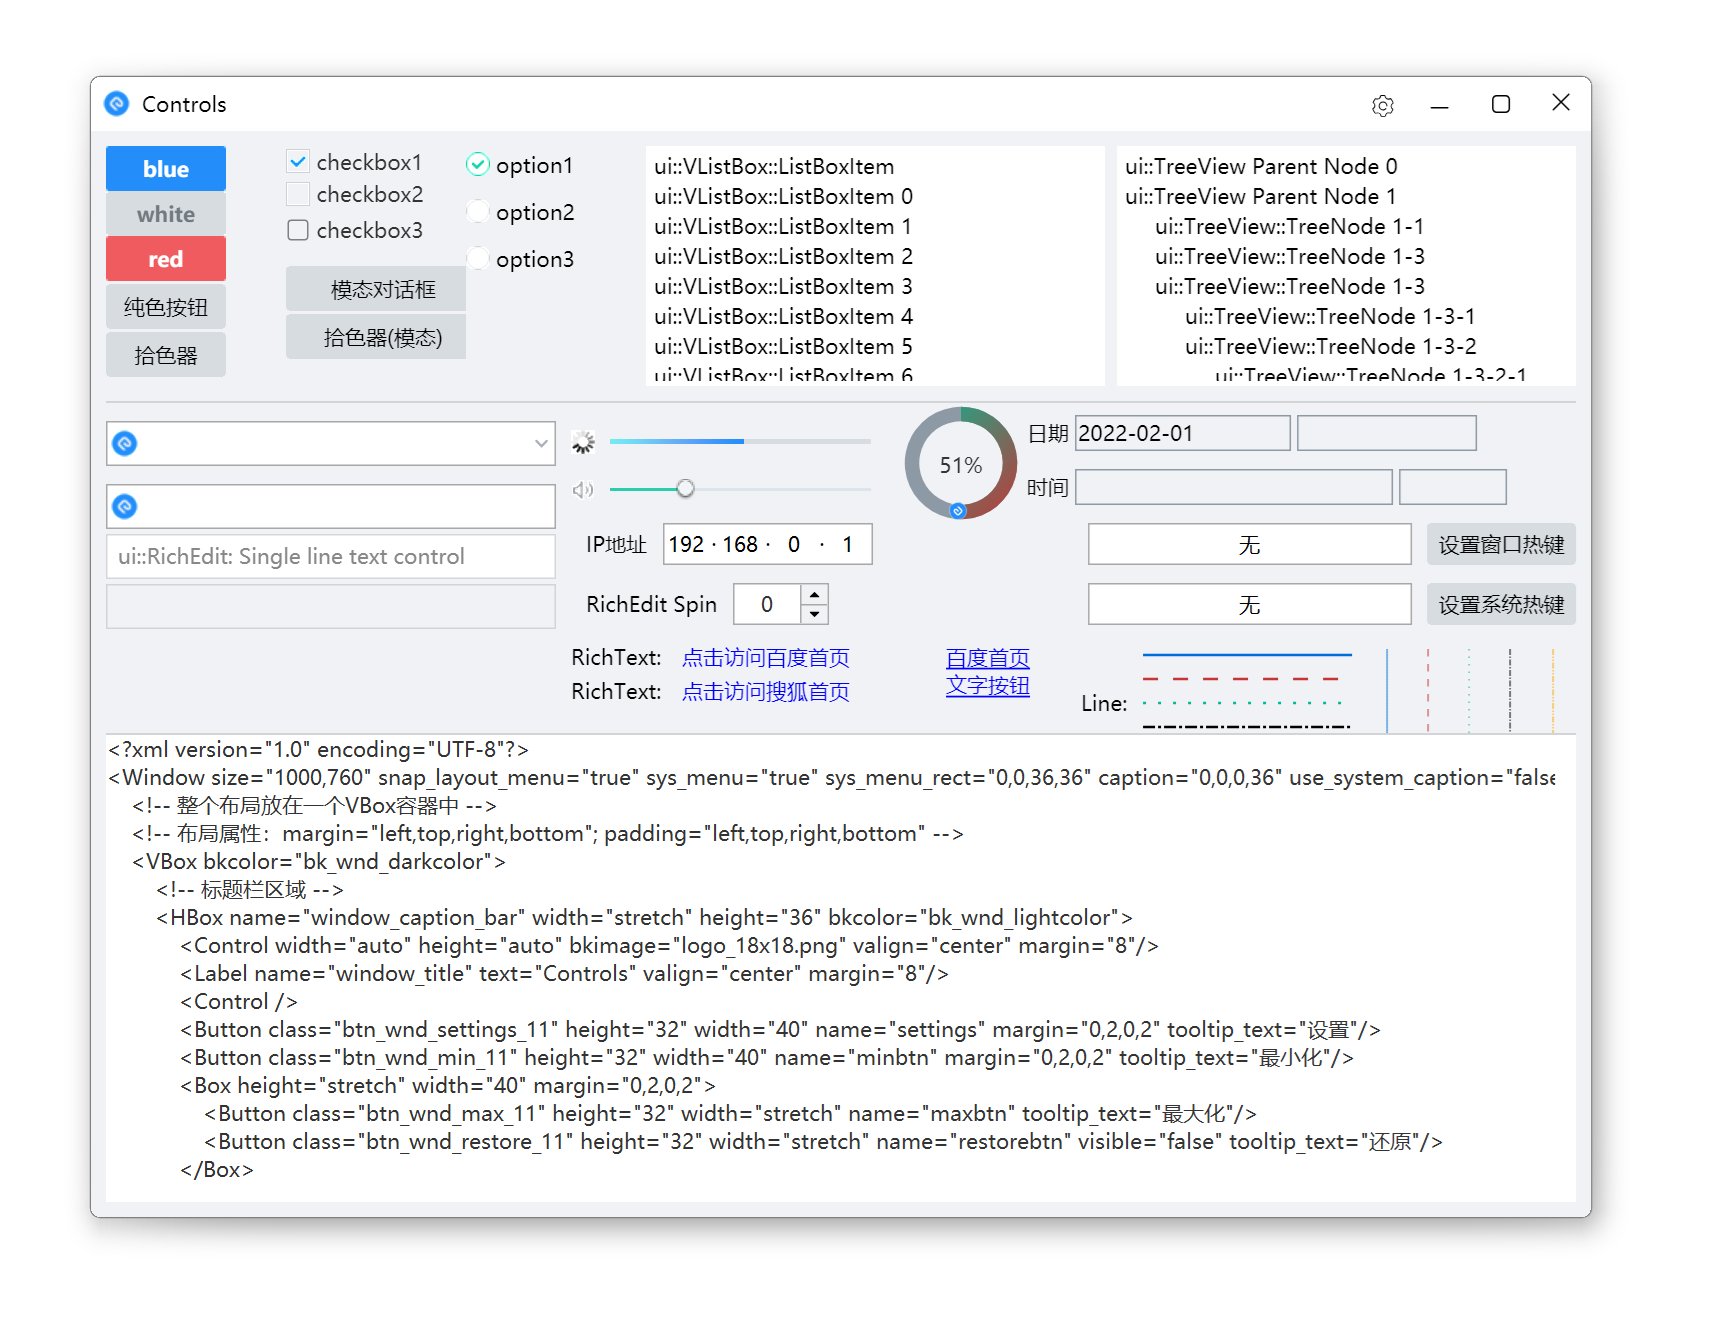
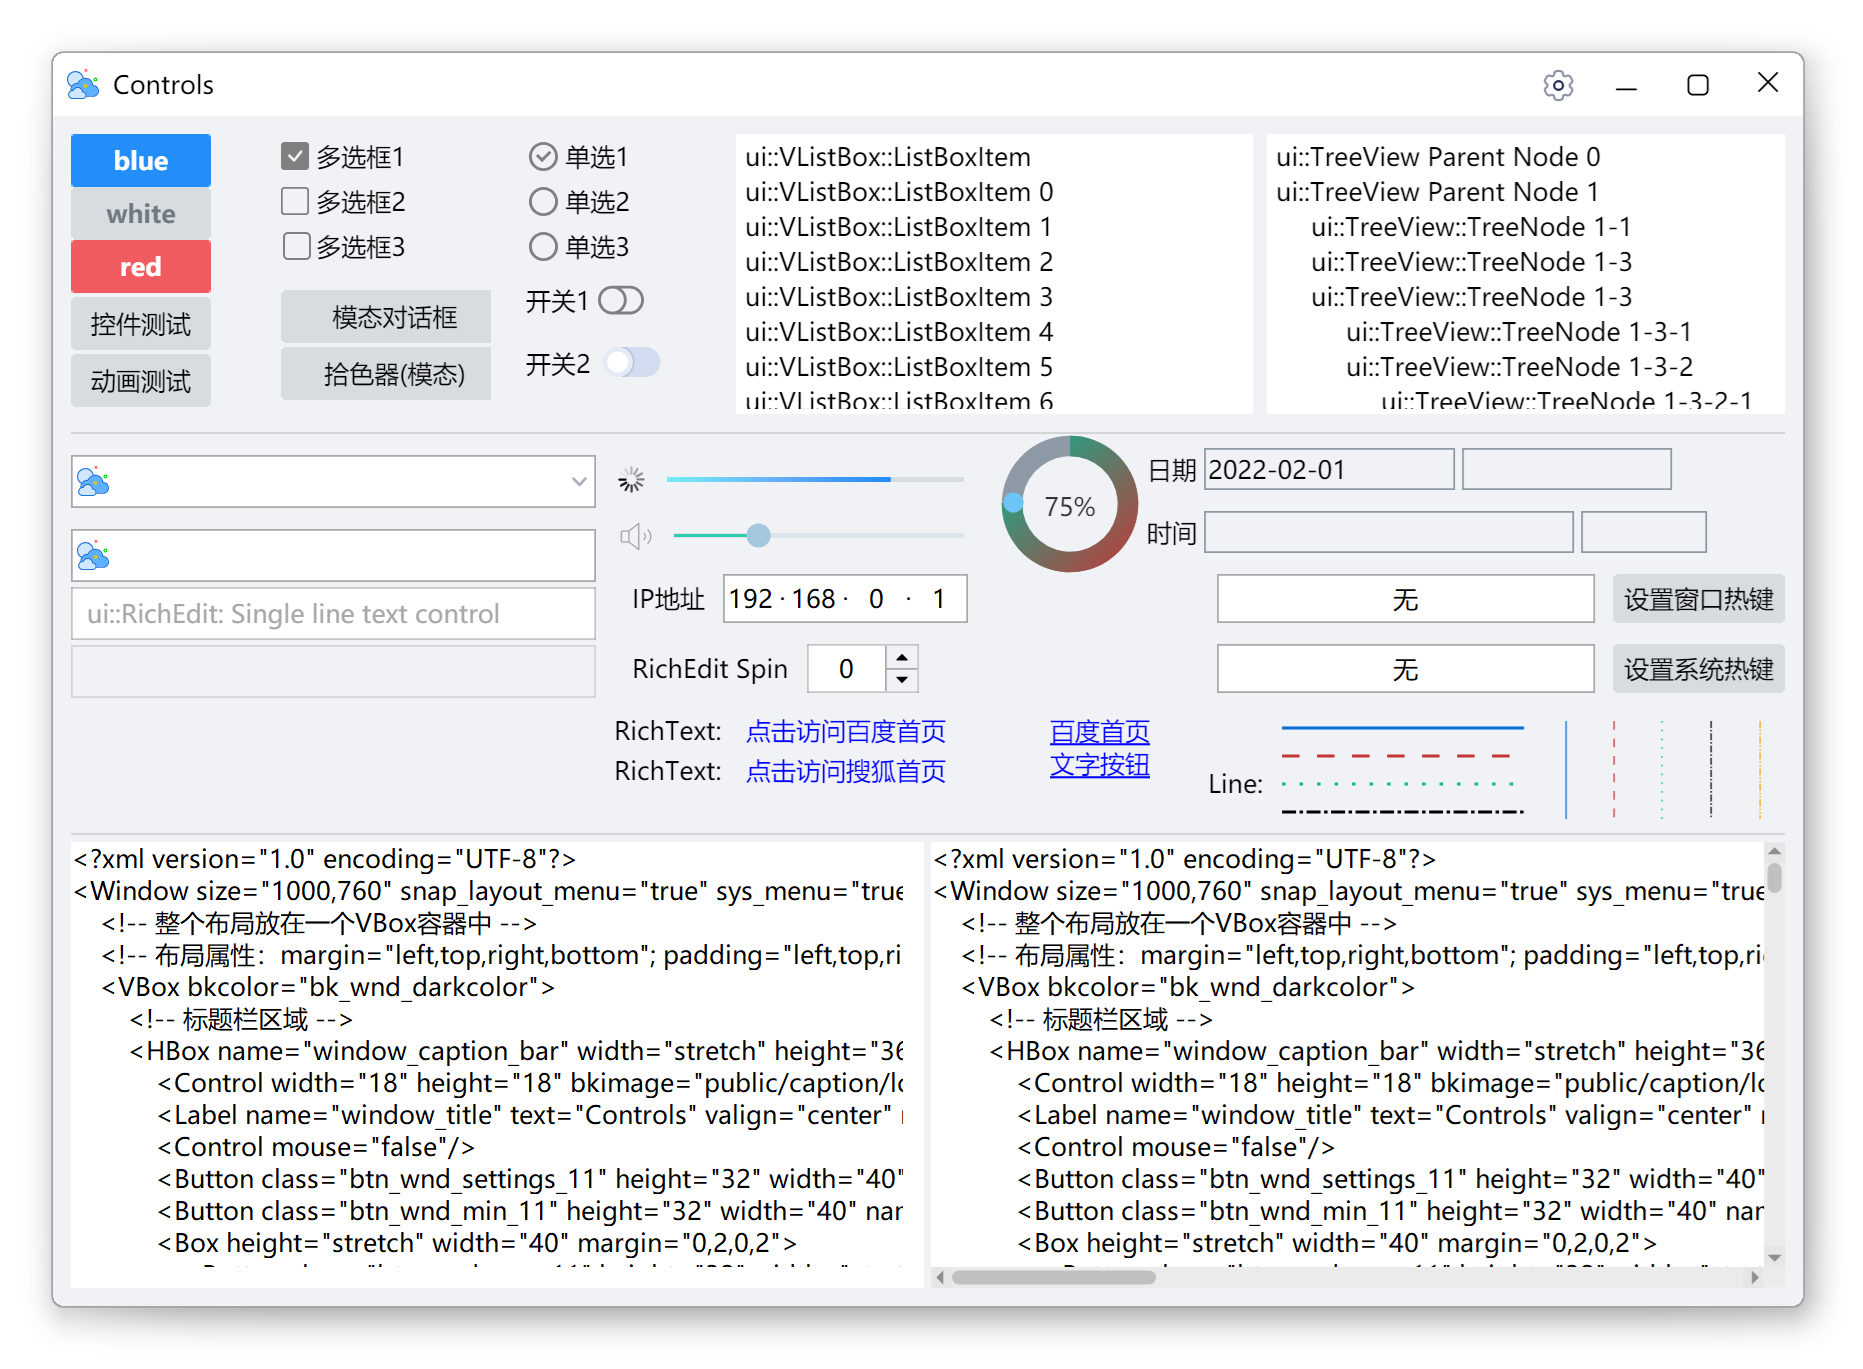
完善REASME.md等文档，将各个示例程序的截图更新到最新。

Changed region(s): [[0.0, 0.0307, 0.982, 0.982], [0.3376, 0.2455, 0.3683, 0.2762]]

diff --git a/README.md b/README.md
@@ -55,7 +55,7 @@
     <tr><td align="left">10. CEF组件放到duilib工程，并对CEF的版本进行了升级（支持libcef 109 版本，以兼容Win7系统；支持libcef 137 版本，支持Win10及以上操作系统）</td></tr>
     <tr><td align="left">11. 重新设计图片管理的接口和加载流程（Image目录），支持多线程加载图片，以更好的扩展其他图片格式支持</td></tr>
     <tr>
-        <td rowspan="19">功能完善</td>
+        <td rowspan="20">功能完善</td>
         <td align="left">1. 对窗口类（Window）增加了新的属性：的功能进行了完善，提高对DPI自适应、窗口消息的代码容错，代码结构做了调整</td>
     </tr>
     <tr><td align="left">2. 对窗口类（Window）增加了新的属性：use_system_caption，snap_layout_menu，sys_menu，sys_menu_rect, icon属性，提供使用操作系统默认标题栏的选项，自绘标题栏的功能与系统标题栏的功能相似</td></tr>
@@ -65,7 +65,7 @@
     <tr><td align="left">6. 对组合框（Combo）关联的控件（CheckCombo、FilterCombo）进行了优化，提升可用性</td></tr>
     <tr><td align="left">7. 对日期时间（DateTime）控件的编辑功能进行了完善</td></tr>
     <tr><td align="left">8. 对菜单（CMenuWnd）类的功能代码进行优化，按新的结构重新实现菜单，使得菜单内的控件完全兼容现有容器/控件体系，易于理解和维护</td></tr>
-    <tr><td align="left">9. 对富文本编辑控件（RichEdit）进行功能优化和扩展，丰富了较多常用功能</td></tr>
+    <tr><td align="left">9. 对文本编辑控件（RichEdit）进行功能优化和扩展，丰富了较多常用功能</td></tr>
     <tr><td align="left">10. 对树控件（TreeView）进行功能优化和扩展，丰富了较多常用功能，提升可用性</td></tr>
     <tr><td align="left">11. 全局资源（GlobalManager）的接口进行了优化，使得所有资源全部通过此接口管理，易于理解和维护</td></tr>
     <tr><td align="left">12. 同一个窗口内的不同容器之间，容器内的控件可以通过属性设置支持拖出和拖入操作</td></tr>
@@ -76,6 +76,7 @@
     <tr><td align="left">17. 优化窗口的阴影功能，窗口的阴影使用svg图片，增加了阴影类型属性（shadow_type），可选值为：<br> "default", 默认阴影 <br> "big", 大阴影，直角（适合普通窗口）<br> "big_round", 大阴影，圆角（适合普通窗口）<br> "small", 小阴影，直角（适合普通窗口）<br> "small_round", 小阴影，圆角（适合普通窗口）<br> "menu", 小阴影，直角（适合弹出式窗口，比如菜单等）<br> "menu_round", 小阴影，圆角（适合弹出式窗口，比如菜单等）<br> "none", 无阴影</td></tr>
     <tr><td align="left">18. 新增对APNG/SVG/WEBP/ICO/LOTTIE/PAG图片格式的支持</td></tr>
     <tr><td align="left">19. 重新设计控件的loading功能，使用Box容器展示loading功能，通过xml文件配置loading界面（包括动画图片），并支持与动画图片交互</td></tr>
+    <tr><td align="left">20. Label文本显示控件的功能加强：对文本齐方式新增加"两端对齐"，新增对竖排文本的支持（文本绘制方向从上到下，从右到左），新增支持设置行间距和设置字间距</td></tr>
     <tr>
         <td rowspan="19">新增控件</td>
         <td align="left">1. GroupBox：分组容器</td>
@@ -169,6 +170,8 @@
 ## 支持的操作系统
 - Windows：Windows 7.0 版本及以上
 - Linux：OpenEuler、OpenKylin（开放麒麟）、UbuntuKylin（优麒麟）、中科方德、统信UOS、Ubuntu、Debian、Fedora、OpenSuse等
+- macOS
+- FreeBSD
 
 ## 支持的编译器
 - Visual Studio 2022（Windows）
@@ -177,8 +180,9 @@
 - gcc/g++（Linux）
 - clang/clang++（Linux）
 - clang/clang++（macOS）
+- clang/clang++（FreeBSD）
 
-## 获取代码和编译（Windows平台）
+## A. 编译过程（Windows平台）
 ### 一、准备工作：安装必备的软件
 1. 安装python3（python的主版本需要是3，需要添加到Path环境变量）    
 （1）首先安装python3    
@@ -187,11 +191,12 @@
 （4）在命令行验证：`> python3.exe --version` 可以查看python的版本号     
 2. 安装Git For Windows: 2.44版本，git需要添加到Path环境变量，确保命令行参数中可以访问到git.exe    
 3. 安装Visual Studio 2022社区版    
-4. 安装LLVM：20.1.0 Win64 版本    
+4. 安装LLVM：21.1.4 Win64 版本（其他版本也可以）    
 （1）安装目录：`C:\LLVM`    
 （2）注意事项：如果安装在其他目录，安装目录中不能有空格，否则编译会遇到问题。
 
-### 二、一键编译（推荐）
+### 二、使用脚本自动编译（推荐）
+该脚本自动完成相关源码下载和编译工作。    
 选定一个工作目录，创建一个脚本`build.bat`，将下面已经整理好脚本复制进去，保存文件。    
 脚本文件内容如下：    
 ```
@@ -227,7 +232,7 @@ if %errorlevel% neq 0 (
 （2）按照skia_compile目录中的[Windows下编译skia.md](https://github.com/rhett-lee/skia_compile/blob/main/Windows%E4%B8%8B%E7%BC%96%E8%AF%91skia.md)文档中的方法，编译出skia相关的.lib文件      
 3. 编译nim_duilib：进入 `build` 目录，打开 `examples.sln`，可执行编译，编译完成的示例程序位于bin目录中。
 
-## 获取代码和编译（Linux平台）
+## B. 编译过程（Linux平台）
 ### 一、准备工作：安装必备的软件
 不同的操作系统平台，可以按照以下列表安装必备的软件。
 | 操作系统平台            |桌面类型        |需要安装的模块及安装命令（必选） | 
@@ -242,7 +247,8 @@ if %errorlevel% neq 0 (
 |Fedora                   |GNOME（Wayland）|`sudo dnf install -y gcc g++ gdb make git ninja-build gn python cmake llvm clang unzip fontconfig-devel mesa-libGL-devel mesa-libGLU-devel mesa-libGLES-devel mesa-libEGL-devel vulkan-devel libXext-devel libXcursor-devel libXi-devel libXrandr-devel dbus-devel ibus-devel wayland-devel libxkbcommon-devel`|
 |OpenSuse                 |KDE（X11）      |`sudo zypper install -y gcc gcc-c++ gdb make git ninja gn python cmake llvm clang unzip fontconfig-devel Mesa-libGL-devel Mesa-libEGL-devel Mesa-libGLESv3-devel glu-devel vulkan-devel libXext-devel libXcursor-devel libXi-devel libXrandr-devel dbus-1-devel ibus-devel`|
 
-### 二、一键编译（推荐）
+### 二、使用脚本自动编译（推荐）
+该脚本自动完成相关源码下载和编译工作。    
 选定一个工作目录，创建一个脚本`build.sh`，将下面已经整理好脚本复制进去，保存文件。    
 然后在控制台，为脚本文件添加可执行权限，最后运行该脚本： 
 ```
@@ -314,7 +320,7 @@ chmod +x linux_build.sh
 编译完成后，在bin目录中生成了可执行文件。    
 如果希望支持CEF，可以参考相关文档[docs/CEF.md](docs/CEF.md)。
 
-## 获取代码和编译（macOS平台）
+## C. 编译过程（macOS平台）
 ### 一、准备工作：安装必备的软件
 安装完成系统后，需要做的工作：    
 #### 安装Xcode命令行工具
@@ -357,7 +363,8 @@ sudo cp out/gn /usr/local/bin/
 gn --version
 ```
 
-### 二、一键编译（推荐）
+### 二、使用脚本自动编译（推荐）
+该脚本自动完成相关源码下载和编译工作。    
 选定一个工作目录，创建一个脚本`build.sh`，将下面已经整理好脚本复制进去，保存文件。    
 然后在控制台，为脚本文件添加可执行权限，最后运行该脚本： 
 ```
@@ -420,12 +427,13 @@ chmod +x macos_build.sh
 编译完成后，在bin目录中生成了可执行文件。    
 如果希望支持CEF，可以参考相关文档[docs/CEF.md](docs/CEF.md)。
 
-## 获取代码和编译（FreeBSD平台）
+## D. 编译过程（FreeBSD平台）
 ### 一、准备工作：安装必备的软件
 ```
 sudo pkg install git unzip python3 cmake ninja gn llvm fontconfig freetype2
 ```
-### 二、一键编译（推荐）
+### 二、使用脚本自动编译（推荐）
+该脚本自动完成相关源码下载和编译工作。    
 选定一个工作目录，创建一个脚本`build.sh`，将下面已经整理好脚本复制进去，保存文件。    
 然后在控制台，为脚本文件添加可执行权限，最后运行该脚本： 
 ```
@@ -489,7 +497,7 @@ chmod +x ./build/freebsd_build.sh
 编译完成后，在bin目录中生成了可执行文件。    
 
 ## 开发计划
- - 跨平台（Windows/Linux/macOS）的窗口引擎（基于[SDL3.0](https://www.libsdl.org/)）不断测试与完善（X11和Wayland）
+ - 跨平台（Windows/Linux/macOS/FreeBSD）的窗口引擎（基于[SDL3.0](https://www.libsdl.org/)）不断测试与完善（X11和Wayland）
  - 动画功能的加强
  - 不断测试发现缺陷并修复，不断完善代码
  - 其他待补充

diff --git a/docs/Examples.md b/docs/Examples.md
@@ -1,68 +1,81 @@
 ## 示例程序
-examples 目录中包含了一些示例程序，你可以参考这些示例程序来完善你的应用程序。
+examples 目录中包含了一些示例程序，可以参考这些示例程序来完善自己的应用程序。
 
 ## 1. examples/basic
 一个基础的窗口示例程序，带有最小化、最大化、还原和关闭按钮。    
-<img src="./Images/basic.png"/>
+<img width="700" src="./Images/basic.png"/>
 
-## 2. examples/cef
-演示如何在 nim_duilib 中使用 CEF 控件，包含 C++ 与 JavaScript 交互。    
-<img src="./Images/cef.png"/>
+## 2. examples/ColorPicker
+演示如何使用拾色器控件的程序。    
+<img width="700" src="./Images/ColorPicker.png"/>
 
-## 3. examples/ColorPicker
-演示如何使用拾色器控件的程序。
-<img src="./Images/ColorPicker.png"/>
-
-## 4. examples/controls
+## 3. examples/controls
 一些常用控件的样式使用方法示例。    
-<img src="./Images/controls.png"/>
+<img width="900" src="./Images/controls.png"/>
 
-## 5. examples/layouts
-包含一个登录窗口和一个模拟微信 PC 聊天布局的窗口示例。    
-<img src="./Images/layouts.png"/>
+## 4. examples/chat
+包含一个登录窗口和一个模拟 PC 聊天布局的窗口示例。    
+<img width="800" src="./Images/chat.png"/>
 
-## 6. examples/ListBox
-演示如何使用ListBox容器的程序。
-<img src="./Images/ListBox.png"/>
+## 5. examples/ListBox
+演示如何使用ListBox容器的程序。    
+<img width="600" src="./Images/ListBox.png"/>
     
-## 7. examples/ListCtrl
+## 6. examples/ListCtrl
 演示如何使用ListCtrl控件。    
-<img src="./Images/ListCtrl.png"/>
+<img width="1000" src="./Images/ListCtrl.png"/>
 
-## 8. examples/MoveControl
+## 7. examples/MoveControl
 演示如何使用Box容器的"drag_out_id"和"drop_in_id"属性来实现控件在不同容器之间的移动效果。    
-<img src="./Images/MoveControl.png"/>
-    
-## 9. examples/CefBrowser
-基于 CEF 的自定义多标签可拖曳浏览器示例。
-<img src="./Images/CefBrowser.png"/>
-    
-## 10. examples/render
+<img width="600" src="./Images/MoveControl.png"/>
+   
+## 8. examples/render
 演示如何使用渲染引擎的程序，同时也包含了各种控件/容器的使用示例。    
-<img src="./Images/render01.png"/>
-<img src="./Images/render02.png"/>
-<img src="./Images/render03.png"/>
+<img width="900" src="./Images/render01.png"/>
+<img width="900" src="./Images/render02.png"/>
+<img width="900" src="./Images/render03.png"/>
+<img width="900" src="./Images/render04.png"/>
 
-## 11. examples/RichEdit
+## 9. examples/RichEdit
 演示如何使用RichEdit控件。    
-<img src="./Images/RichEdit.png"/>
+<img width="900" src="./Images/RichEdit.png"/>
 
-## 12. examples/TreeView
+## 10. examples/TreeView
 演示如何使用TreeView控件。    
-<img src="./Images/TreeView.png"/>
+<img width="900" src="./Images/TreeView.png"/>
     
-## 13. examples/VirtualListBox
+## 11. examples/VirtualListBox
 演示如何使用基于虚表实现的ListBox容器。    
-<img src="./Images/VirtualListBox.png"/>
+<img width="900" src="./Images/VirtualListBox.png"/>
     
-## 14. examples/MultiLang
+## 12. examples/MultiLang
 演示如何使用多语言功能，支持多语言的动态切换。    
-<img src="./Images/MultiLang.png"/>
+<img width="700" src="./Images/MultiLang.png"/>
 
-## 15. examples/DpiAware
+## 13. examples/DpiAware
 演示如何使用DPI感知功能，如何动态设置窗口的DPI。    
-<img src="./Images/DpiAware.png"/>
+<img width="700" src="./Images/DpiAware.png"/>
 
-## 16. examples/threads
+## 14. examples/threads
 演示如何使用多线程功能，包含多线程通信等。    
-<img src="./Images/threads.png"/>
+<img width="800" src="./Images/threads.png"/>
+
+## 15. examples/layout
+演示容器的各种布局。    
+<img width="1000" src="./Images/layout.png"/>
+
+## 16. examples/cef
+演示如何在使用 CEF 控件，包含 C++ 与 JavaScript 交互。    
+<img width="700" src="./Images/cef.png"/>
+
+## 17. examples/CefBrowser
+基于 CEF 的自定义多标签可拖曳浏览器示例。    
+<img width="800" src="./Images/CefBrowser.png"/>
+    
+## 18. examples/WebView2
+演示如何在使用 WebView2 控件。    
+<img width="800" src="./Images/WebView2.png"/>
+
+## 19. examples/WebView2Browser
+基于 WebView2 的自定义多标签可拖曳浏览器示例。    
+<img width="800" src="./Images/WebView2Browser.png"/>
